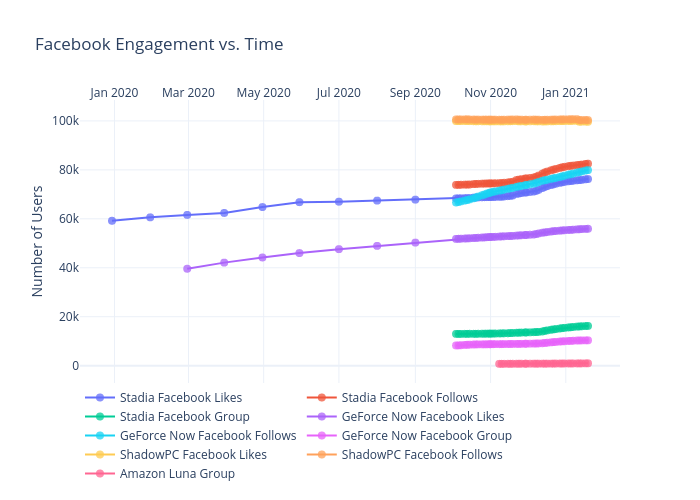
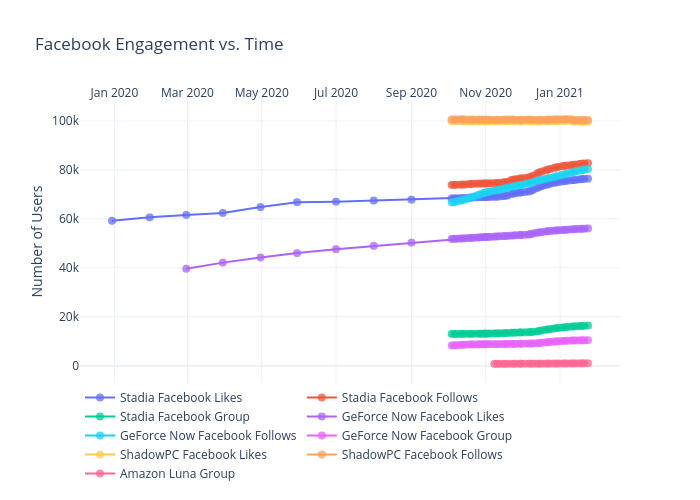
Add files via upload

diff --git a/facebook/figure.js b/facebook/figure.js
@@ -149,7 +149,8 @@ var figure = {
                 "75914",
                 "76135",
                 "76238",
-                "76316"
+                "76316",
+                "76412"
             ],
             "marker": {
                 "size": 8,
@@ -308,7 +309,8 @@ var figure = {
                 "82156",
                 "82416",
                 "82528",
-                "82622"
+                "82622",
+                "82738"
             ],
             "marker": {
                 "size": 8,
@@ -467,7 +469,8 @@ var figure = {
                 "16098",
                 "16177",
                 "16228",
-                "16292"
+                "16292",
+                "16381"
             ],
             "marker": {
                 "size": 8,
@@ -626,7 +629,8 @@ var figure = {
                 "55817",
                 "55874",
                 "55931",
-                "55988"
+                "55988",
+                "56082"
             ],
             "marker": {
                 "size": 8,
@@ -785,7 +789,8 @@ var figure = {
                 "79358",
                 "79701",
                 "79898",
-                "80105"
+                "80105",
+                "80347"
             ],
             "marker": {
                 "size": 8,
@@ -944,7 +949,8 @@ var figure = {
                 "10312",
                 "10337",
                 "10353",
-                "10383"
+                "10383",
+                "10411"
             ],
             "marker": {
                 "size": 8,
@@ -1103,7 +1109,8 @@ var figure = {
                 "99693",
                 "99726",
                 "99653",
-                "99685"
+                "99685",
+                "99715"
             ],
             "marker": {
                 "size": 8,
@@ -1262,7 +1269,8 @@ var figure = {
                 "100362",
                 "100398",
                 "100325",
-                "100357"
+                "100357",
+                "100388"
             ],
             "marker": {
                 "size": 8,
@@ -1421,7 +1429,8 @@ var figure = {
                 "922",
                 "947",
                 "962",
-                "973"
+                "973",
+                "971"
             ],
             "marker": {
                 "size": 8,
@@ -1440,8 +1449,8 @@ var figure = {
             "side": "top",
             "type": "date",
             "range": [
-                "2019-12-06 00:14:38.1479",
-                "2021-02-13 23:45:21.8521"
+                "2019-12-05 19:47:31.9481",
+                "2021-02-17 04:12:28.0519"
             ],
             "title": {
                 "text": ""
